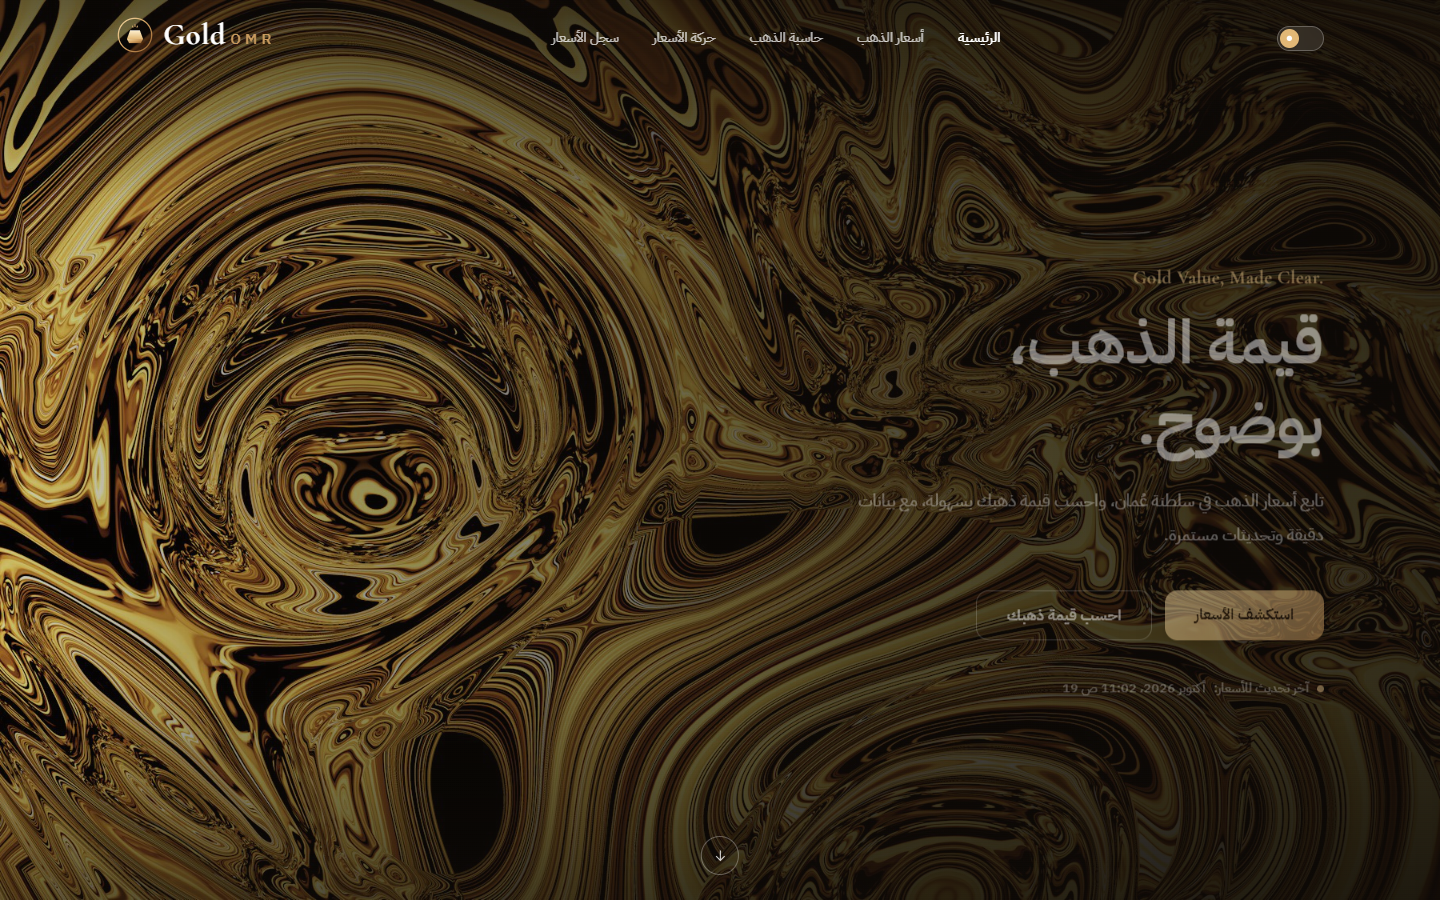
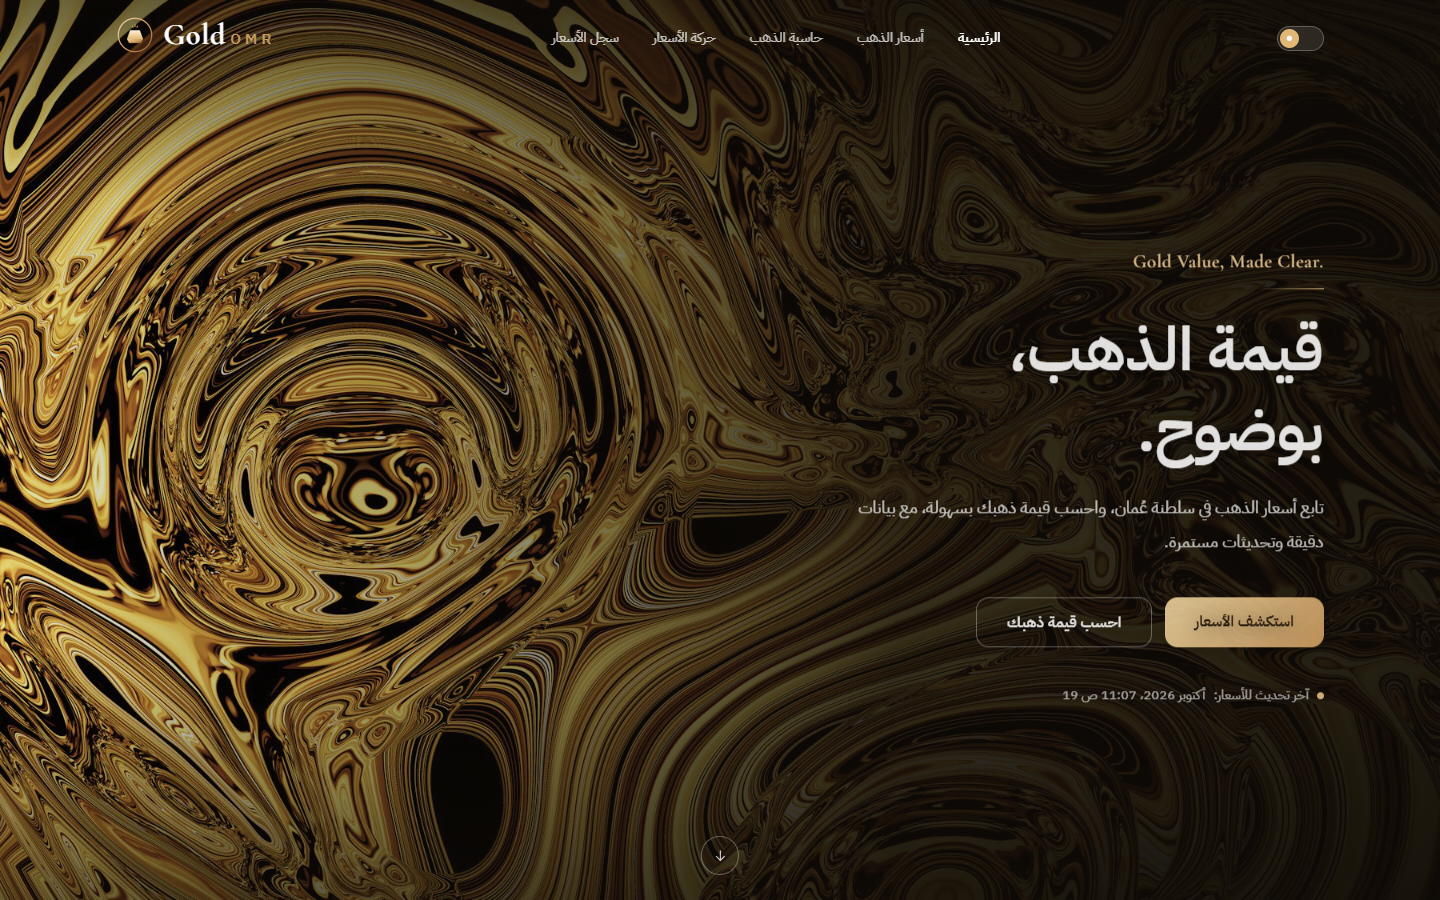
Tidy hero: stronger text shade, accent divider; retake screenshots after animation

diff --git a/src/app/components/hero/hero.component.html b/src/app/components/hero/hero.component.html
@@ -3,10 +3,11 @@
   <div class="hero-shade pointer-events-none absolute inset-0" aria-hidden="true"></div>
 
   <div class="relative z-10 mx-auto w-full max-w-[75rem] px-5 pb-16 pt-28 sm:px-8" dir="ltr">
-    <div class="animate-fade-up ml-auto max-w-[34rem] text-right" dir="rtl">
-      <p class="brand-font text-right text-[1.1rem] font-semibold tracking-wide text-[#E8C48A]" dir="ltr">Gold Value, Made Clear.</p>
-      <h1 id="hero-title" class="mt-3 text-[2.6rem] font-semibold leading-[1.3] text-white md:text-[3.6rem]">قيمة الذهب،<br />بوضوح.</h1>
-      <p class="mt-5 max-w-md text-[1rem] leading-8 text-white/75">
+    <div class="animate-fade-up hero-copy ml-auto max-w-[34rem] text-right" dir="rtl">
+      <p class="brand-font text-right text-[1.1rem] font-semibold tracking-wide text-[#F0CF9A]" dir="ltr">Gold Value, Made Clear.</p>
+      <span class="mt-3 block h-px w-16 bg-gradient-to-l from-[#E8C48A] to-transparent" aria-hidden="true"></span>
+      <h1 id="hero-title" class="mt-5 text-[2.6rem] font-semibold leading-[1.3] text-white md:text-[3.6rem]">قيمة الذهب،<br />بوضوح.</h1>
+      <p class="mt-5 max-w-md text-[1rem] leading-8 text-white/85">
         تابع أسعار الذهب في سلطنة عُمان، واحسب قيمة ذهبك بسهولة، مع بيانات دقيقة وتحديثات مستمرة.
       </p>
       <div class="mt-9 flex flex-wrap gap-3">
@@ -14,7 +15,7 @@
           style="background: linear-gradient(135deg, #F3D9A4, #D4A262)">استكشف الأسعار</a>
         <a href="#calculator" class="rounded-xl border border-white/35 px-7 py-3 text-[0.9rem] font-semibold text-white backdrop-blur-sm transition hover:border-[#E8C48A] hover:text-[#E8C48A]">احسب قيمة ذهبك</a>
       </div>
-      <p class="mt-9 flex items-center gap-2 text-[0.78rem] text-white/60">
+      <p class="mt-9 flex items-center gap-2 text-[0.78rem] text-white/70">
         <span class="h-1.5 w-1.5 rounded-full bg-[#E8C48A]" aria-hidden="true"></span>
         آخر تحديث للأسعار: <span class="num" dir="ltr">{{ updatedAt }}</span>
       </p>

diff --git a/src/styles.css b/src/styles.css
@@ -138,7 +138,7 @@ select.field {
 .hero-shade {
   background:
     linear-gradient(to bottom, rgba(14, 10, 6, .55) 0%, rgba(14, 10, 6, 0) 22%, rgba(14, 10, 6, 0) 75%, rgba(14, 10, 6, .55) 100%),
-    linear-gradient(to left, rgba(14, 10, 6, .86) 0%, rgba(14, 10, 6, .72) 40%, rgba(14, 10, 6, .2) 100%);
+    linear-gradient(to left, rgba(14, 10, 6, .92) 0%, rgba(14, 10, 6, .84) 38%, rgba(14, 10, 6, .35) 72%, rgba(14, 10, 6, .1) 100%);
 }
 @media (max-width: 767px) {
   .hero-shade { background: rgba(14, 10, 6, .72); }
@@ -147,3 +147,4 @@ select.field {
   background: linear-gradient(145deg, #C98A5B 0%, #A8643A 55%, #7A4426 100%);
   box-shadow: 0 24px 50px -22px rgba(90, 45, 20, .65), inset 0 1px 0 rgba(255, 255, 255, .25);
 }
+.hero-copy { text-shadow: 0 2px 18px rgba(0, 0, 0, .55); }
